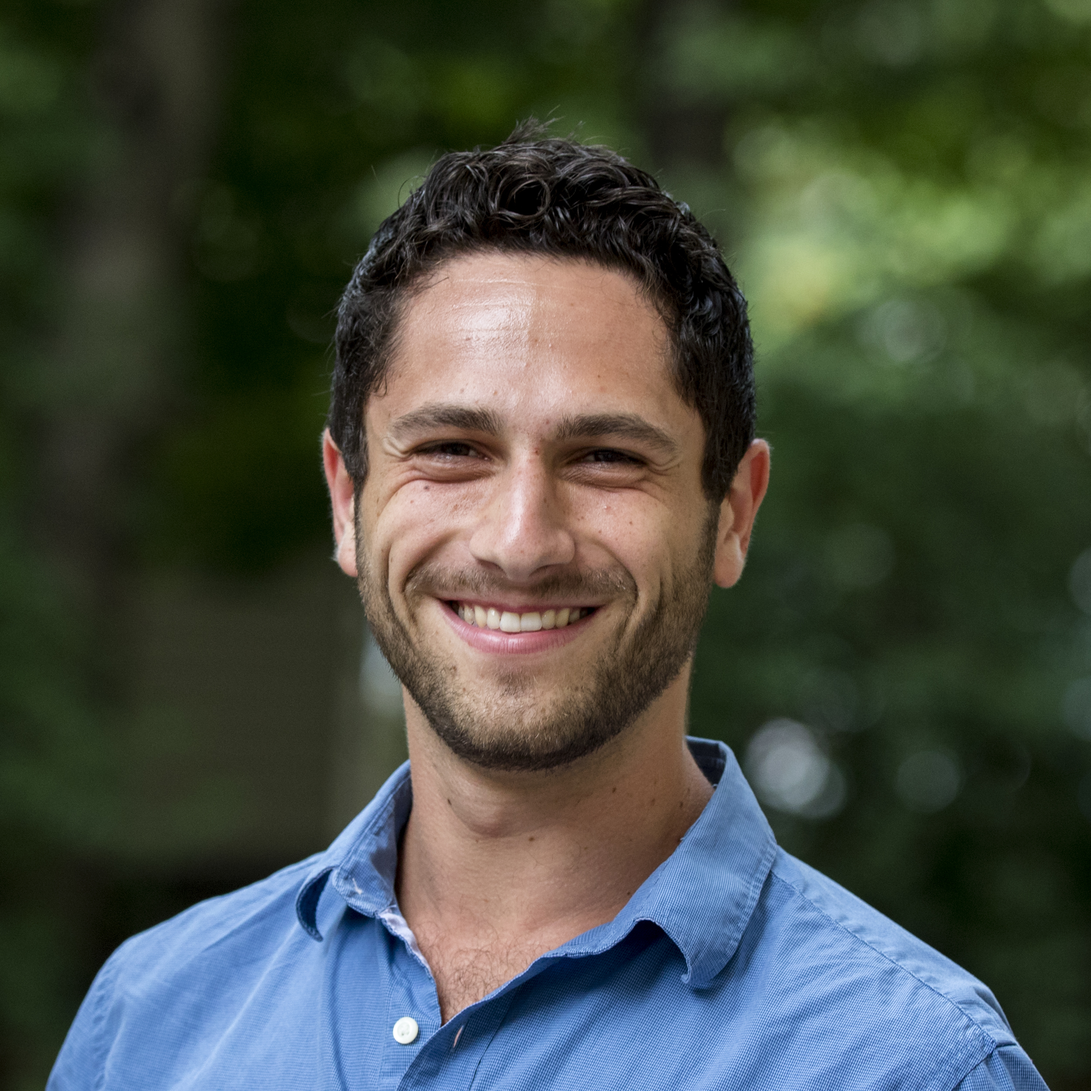
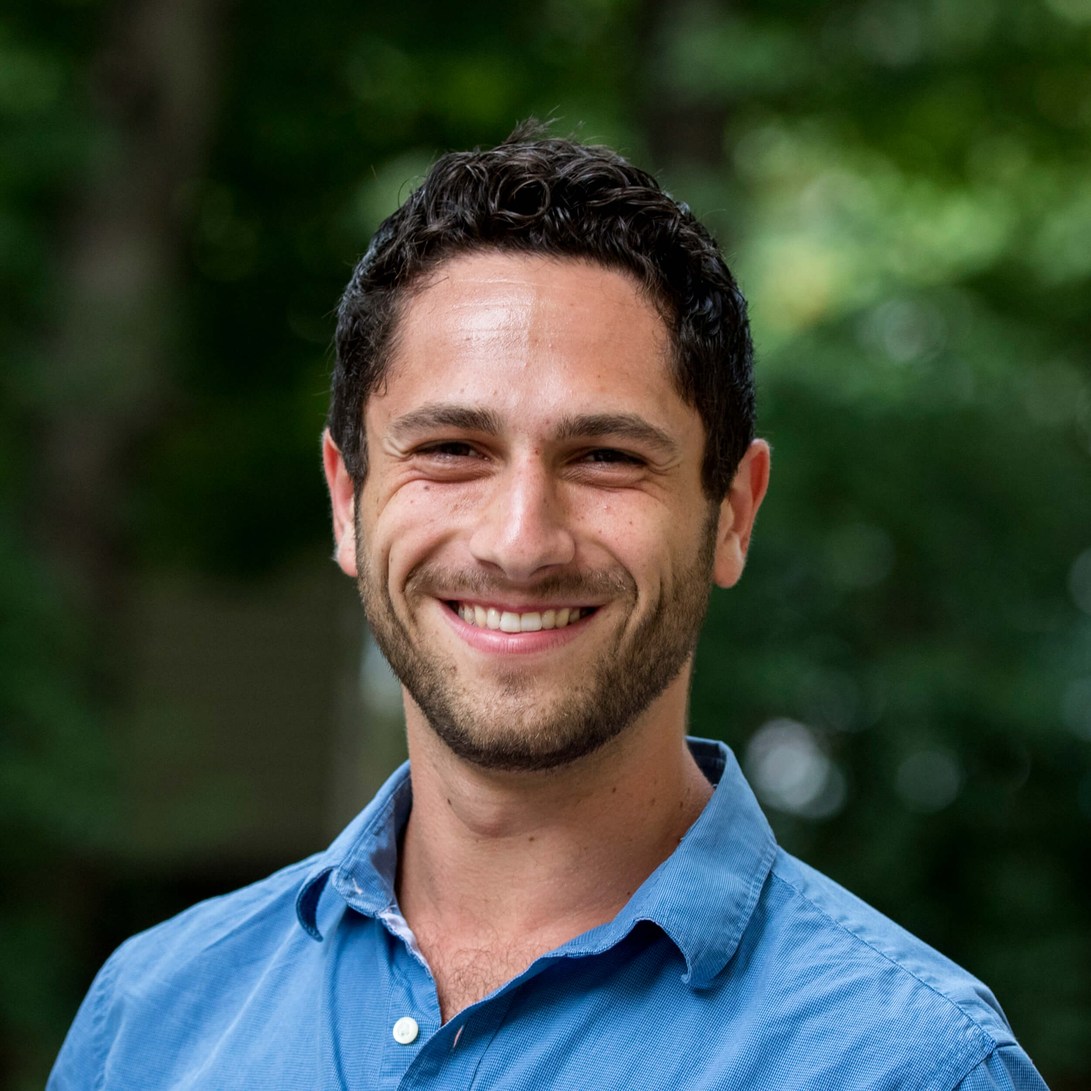
Swap images for resized assets

Changed region(s): [[0.0312, 0.7482, 0.9664, 1.0], [0.2806, 0.4053, 0.3118, 0.4365], [0.1871, 0.9976, 0.2182, 1.0]]

diff --git a/index.html b/index.html
@@ -54,17 +54,17 @@
 						<h2>Recent Work</h2>
 						<div class="row">
 							<article class="col-12 col-12-xsmall work-item">
-								<a href="images/thumbs/caesarnote-main.png" class="image fit thumb"><img src="images/thumbs/caesarnote-main.png" alt="" /></a>
+								<a href="images/caesarnote.png" class="image fit thumb"><img src="images/caesarnote.png" alt="" /></a>
 								<h3><a href="http://caesarnote.herokuapp.com">Caesarnote</a></h3>
 								<p>A cryptographic cloud-based note-taking app. Built using React, Redux, Quill.js, Ruby on Rails, PostgreSQL.</p>
 							</article>
 							<article class="col-12 col-12-xsmall work-item">
-								<a href="images/thumbs/travelx-main.png" class="image fit thumb"><img src="images/thumbs/travelx-main.png" alt="" /></a>
+								<a href="images/travelx.png" class="image fit thumb"><img src="images/travelx.png" alt="" /></a>
 								<h3><a href="https://travelx-aa.herokuapp.com">TravelX</a></h3>
 								<p>An all-in-one attraction planning app for the trip of a lifetime! Built using MongoDB, Express, React, Node, Redux, Material UI.</p>
 							</article>
 							<article class="col-12 col-12-xsmall work-item">
-								<a href="images/thumbs/maze-runner-main.png" class="image fit thumb"><img src="images/thumbs/maze-runner-main.png" alt="" /></a>
+								<a href="images/maze-runner.png" class="image fit thumb"><img src="images/maze-runner.png" alt="" /></a>
 								<h3><a href="https://micah-jaffe.github.io/maze-runner/">Maze Runner</a></h3>
 								<p>An interactive browser game that pits human against algorithm. Built using JavaScript, HTML5, CSS3.</p>
 							</article>
